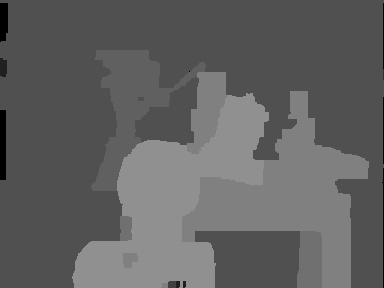
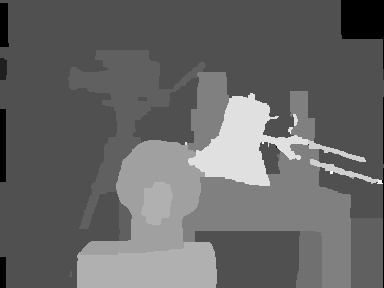
halfway pres done

diff --git a/doc/halfway.tex b/doc/halfway.tex
@@ -87,43 +87,97 @@
   \end{figure}
 }
 
+\section{Depth Map Algorithms}
 
-\section{Planning}
 
 \frame
 {
-  \frametitle{Tasks}
+  \frametitle{Depth Map Algorithms}
+  
+  Tested with standard  OpenCV algorithms\\
+  Used datasets from Middlebury\\
+
   \begin{itemize}
-    \item Martijn and Moos
-    \begin{itemize}
-      \item Camera calibration
-      \item Epipolar geometry
-    \end{itemize}
-    \item Sander and Sebastian
-    \begin{itemize}
-      \item Finding corresponding points
-      \item Generating depth map
-    \end{itemize}
+    \item Graph Cut
+    \item Block Matching
+    \item Semi Global Block Matching
+  \end{itemize}
+  
+}
+
+\frame {
+  \frametitle{New Problems}
+  \begin{itemize}
+    \item parameters of algorithms
+    \item understand and choose right occlusion handling
+    \item implementation very bad with twisted cameras
   \end{itemize}
 }
 
+\frame {
+  \frametitle{Graph Cut}
+      \begin{itemize}
+      \item popular
+      \item slow
+      \item not very precise
+      \end{itemize}
+      \begin{figure}
+      \includegraphics[width=0.4\textwidth]{disp_tsukuba_orig}
+      \:
+      \includegraphics[width=0.4\textwidth]{gc_tsukuba_own}
+      \end{figure}
+}
+
+
+\frame {
+  \frametitle{Block Matching}
+    \begin{itemize}
+      \item faster
+      \item interpretation missing
+    \end{itemize}
+    \begin{figure}
+    \includegraphics[width=0.4\textwidth]{disp_tsukuba_orig}
+    \:
+    \includegraphics[width=0.4\textwidth]{bm_tsukuba_own}
+    \end{figure}
+
+}
+
+\frame{
+    \frametitle{Semi Global Block Matching}
+    \begin{itemize}
+      \item not in Python (used C++ implementatie)
+      \item fastest
+      \item good depthmap
+      \item much noise (needs tuning)
+    \end{itemize}
+    \begin{figure}
+    \includegraphics[width=0.4\textwidth]{disp_tsukuba_orig}
+    \:
+    \includegraphics[width=0.4\textwidth]{sgbm_tsukuba_own}
+    \end{figure}
+}
+
+
+
+\section{Planning}
 \frame
 {
   \frametitle{Planning}
   \begin{itemize}
     \item Week 1
       \begin{itemize}
-        \item Reading literature
-        \item Getting webcams to work
-        \item Choosing dense algorithm
+        \item {\bf done} Reading literature
+        \item {\bf done} Getting webcams to work
+        \item {\bf done} Choosing dense algorithm
       \end{itemize}
     \item Week 2 and 3
       \begin{itemize}
         \item Implementing
           \begin{itemize}
-            \item Camera calibration
-            \item Rectification of images using epipolar geometry
-            \item Dense disparity map algorithm
+            \item \emph{done} Camera calibration
+            \item {\bf done} Rectification of images using epipolar geometry
+            \item \emph{done} Dense disparity map algorithm
           \end{itemize}
         \item Halfway report
       \end{itemize}
@@ -136,6 +190,23 @@
             \item Remove background using dense disparity map
           \end{itemize}
       \end{itemize}
+  \end{itemize}
+}
+
+\frame {
+  \frametitle{new planning - week 3}
+  \begin{itemize}
+    \item Martijn en Moos
+    \begin{itemize}
+      \item Fine tuning calibration
+      \item Cropping of rectified images
+    \end{itemize}
+    \item Sebastian en Sander
+    \begin{itemize}
+      \item Fine tuning parameters
+      \item Completely understand the algorithms
+      \item Depth map normalize
+    \end{itemize}
   \end{itemize}
 }
 \end{document}

diff --git a/doc/pres2.tex b/doc/pres2.tex
@@ -77,8 +77,10 @@
       \item slow
       \item not very precise
       \end{itemize}
-      \importimage{disp_tsukuba_orig}
-      \importimage{gc_tsukuba_own}
+      \begin{figure}
+      \includegraphics[width=0.4\textwidth]{disp_tsukuba_orig}
+      \includegraphics[width=0.4\textwidth]{gc_tsukuba_own}
+      \end{figure}
 }
 
 
@@ -88,8 +90,11 @@
       \item faster
       \item interpretation missing
     \end{itemize}
-    \importimage{disp_tsukuba_orig}
-    \importimage{bm_tsukuba_own}
+    \begin{figure}
+    \includegraphics[width=0.4\textwidth]{disp_tsukuba_orig}
+    \includegraphics[width=0.4\textwidth]{bm_tsukuba_own}
+    \end{figure}
+
 }
 
 \frame{
@@ -100,8 +105,10 @@
       \item good depthmap
       \item much noise (needs tuning)
     \end{itemize}
-    \importimage{disp_tsukuba_orig}
-    \importimage{sgbm_tsukuba_own}
+    \begin{figure}
+    \includegraphics[width=0.4\textwidth]{disp_tsukuba_orig}
+    \includegraphics[width=0.4\textwidth]{sgbm_tsukuba_own}
+    \end{figure}
 }
 
 

diff --git a/code/Python/stereo_gc_test.py b/code/Python/stereo_gc_test.py
@@ -11,7 +11,7 @@ def findstereocorrespondence(image_left, image_right):
     disparity_right = cv.CreateMat(r, c, cv.CV_16S)
     #state = cv.CreateStereoGCState(20, 8)
     state = cv.CreateStereoGCState(20,8)
-    state.minDisparity = -10
+    state.minDisparity = 0
     cv.FindStereoCorrespondenceGC(image_left, image_right, disparity_left, disparity_right, state, 0)
     return (disparity_left, disparity_right)
 
